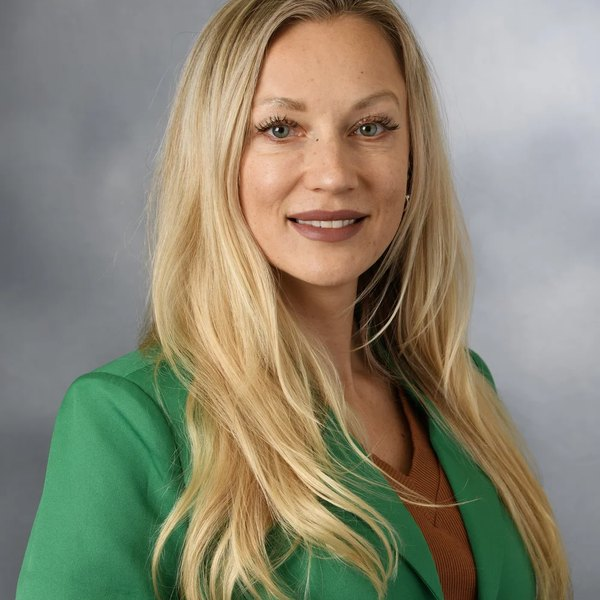
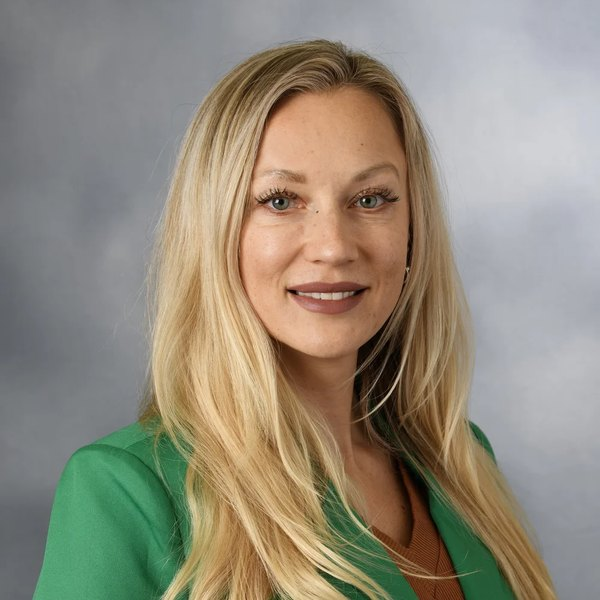
SEO foundation + content corrections
SEO (so Google can index & rank it):
- Removed noindex from all pages (was blocking indexing entirely).
- Added canonical URLs, Open Graph + Twitter cards, geo + theme-color meta.
- Added JSON-LD: GeneralContractor/LocalBusiness (NAP, geo, area served,
  services, hours, UEI/CAGE/NAICS), WebSite, and per-page BreadcrumbList.
- Added robots.txt + sitemap.xml; favicon (JI monogram) + OG image.
- Tuned home title/description for 'Alaska general contractor / Fairbanks'.

Content fixes:
- Costco card: 'Design-Build Office Complex' -> 'Costco Improvements'.
- Relabeled the mining-lab card to 'Mining Facilities Support'; added a real
  'Slope Camp Utilities Expansion' card (man-camp utilities photo, IMG_2416).
- Capabilities point of contact changed to Dave Long, General Manager.
- Re-cropped Maiia's headshot to match the other team photos.

diff --git a/projects.html b/projects.html
@@ -3,13 +3,34 @@
 <head>
 <meta charset="UTF-8" />
 <meta name="viewport" content="width=device-width, initial-scale=1.0" />
-<meta name="robots" content="noindex, nofollow" />
+<meta name="robots" content="index, follow, max-image-preview:large, max-snippet:-1" />
 <title>Projects | Selected Work Across Alaska | Jewel Isaac, LLC</title>
 <meta name="description" content="A portfolio of Jewel Isaac construction projects across Alaska: oil &amp; gas man camps, federal renovations, industrial shops, mine support, and commercial build-outs. Filter by market." />
+<link rel="canonical" href="https://jewelisaac.com/projects.html" />
+<meta name="theme-color" content="#0c0d0f" />
+<meta name="author" content="Jewel Isaac, LLC" />
+<meta name="geo.region" content="US-AK" /><meta name="geo.placename" content="Fairbanks, Alaska" />
+<meta property="og:type" content="website" />
+<meta property="og:site_name" content="Jewel Isaac, LLC" />
+<meta property="og:title" content="Projects | Selected Work Across Alaska | Jewel Isaac, LLC" />
+<meta property="og:description" content="A portfolio of Jewel Isaac construction projects across Alaska: oil &amp; gas man camps, federal renovations, industrial shops, mine support, and commercial build-outs. Filter by market." />
+<meta property="og:url" content="https://jewelisaac.com/projects.html" />
+<meta property="og:image" content="https://jewelisaac.com/assets/img/og-image.jpg" /><meta property="og:image:width" content="1200" /><meta property="og:image:height" content="630" />
+<meta property="og:locale" content="en_US" />
+<meta name="twitter:card" content="summary_large_image" />
+<meta name="twitter:title" content="Projects | Selected Work Across Alaska | Jewel Isaac, LLC" />
+<meta name="twitter:description" content="A portfolio of Jewel Isaac construction projects across Alaska: oil &amp; gas man camps, federal renovations, industrial shops, mine support, and commercial build-outs. Filter by market." />
+<meta name="twitter:image" content="https://jewelisaac.com/assets/img/og-image.jpg" />
+<link rel="icon" type="image/png" sizes="32x32" href="assets/img/favicon-32.png" />
+<link rel="apple-touch-icon" sizes="180x180" href="assets/img/favicon-180.png" />
+<link rel="icon" href="favicon.ico" sizes="any" />
 <link rel="preconnect" href="https://fonts.googleapis.com">
 <link rel="preconnect" href="https://fonts.gstatic.com" crossorigin>
 <link href="https://fonts.googleapis.com/css2?family=Oswald:wght@300;400;500;600;700&family=Inter:wght@400;500;600;700;800&display=swap" rel="stylesheet">
 <link rel="stylesheet" href="assets/styles.css?v=6">
+
+<script type="application/ld+json">{"@context":"https://schema.org","@type":["GeneralContractor","LocalBusiness"],"@id":"https://jewelisaac.com/#organization","name":"Jewel Isaac, LLC","alternateName":"Jewel Isaac General Contractor","url":"https://jewelisaac.com/","logo":"https://jewelisaac.com/assets/img/favicon-512.png","image":"https://jewelisaac.com/assets/img/og-image.jpg","description":"Alaska general contractor self-performing commercial, government, industrial, mining, and oil & gas construction across the state, headquartered in Fairbanks with an Anchorage office.","telephone":"+1-907-415-1600","email":"estimating@jewelisaac.com","priceRange":"$$$","foundingDate":"2004","founder":{"@type":"Person","name":"Seth Church"},"address":{"@type":"PostalAddress","streetAddress":"300 Barnette St, Suite 202","addressLocality":"Fairbanks","addressRegion":"AK","postalCode":"99701","addressCountry":"US"},"geo":{"@type":"GeoCoordinates","latitude":64.8401,"longitude":-147.72},"areaServed":[{"@type":"State","name":"Alaska"},{"@type":"City","name":"Fairbanks"},{"@type":"City","name":"Anchorage"},{"@type":"Place","name":"North Slope, Alaska"}],"knowsAbout":["Commercial construction","Government and defense construction","Industrial construction","Mining facility construction","Oil and gas construction","Design-build","Self-perform general contracting","Workforce housing and man camps","Arctic and cold-climate construction","Tenant improvement","Hydroexcavation"],"hasOfferCatalog":{"@type":"OfferCatalog","name":"Construction Services","itemListElement":[{"@type":"Offer","itemOffered":{"@type":"Service","name":"Commercial Construction","areaServed":"Alaska"}},{"@type":"Offer","itemOffered":{"@type":"Service","name":"Government & Defense Construction","areaServed":"Alaska"}},{"@type":"Offer","itemOffered":{"@type":"Service","name":"Industrial Construction","areaServed":"Alaska"}},{"@type":"Offer","itemOffered":{"@type":"Service","name":"Mining Construction","areaServed":"Alaska"}},{"@type":"Offer","itemOffered":{"@type":"Service","name":"Oil & Gas Construction","areaServed":"Alaska"}}]},"openingHoursSpecification":[{"@type":"OpeningHoursSpecification","dayOfWeek":["Monday","Tuesday","Wednesday","Thursday","Friday"],"opens":"08:00","closes":"17:00"}],"identifier":[{"@type":"PropertyValue","propertyID":"UEI","value":"ULLZLBKHGCB8"},{"@type":"PropertyValue","propertyID":"CAGE","value":"7PYR4"},{"@type":"PropertyValue","propertyID":"NAICS","value":"236220"}]}</script>
+<script type="application/ld+json">{"@context":"https://schema.org","@type":"BreadcrumbList","itemListElement":[{"@type":"ListItem","position":1,"name":"Home","item":"https://jewelisaac.com/"},{"@type":"ListItem","position":2,"name":"Projects","item":"https://jewelisaac.com/projects.html"}]}</script>
 </head>
 <body data-page="projects">
 
@@ -165,9 +186,9 @@
 
       <article class="card reveal d2" data-market="commercial">
         <div class="img" data-bg="assets/img/commercial-arena.jpg"></div><div class="veil"></div>
-        <div class="body"><span class="ptag">Commercial · Design-Build</span><h3>Design-Build Office Complex</h3>
+        <div class="body"><span class="ptag">Commercial</span><h3>Costco Improvements</h3>
           <div class="loc"><svg viewBox="0 0 24 24" fill="none" stroke="currentColor" stroke-width="2"><path d="M12 21s-7-5.6-7-11a7 7 0 0 1 14 0c0 5.4-7 11-7 11z"/><circle cx="12" cy="10" r="2.5"/></svg> Fairbanks, AK</div>
-          <p class="desc">Single-source design-build of a multi-tenant office building: preconstruction, permitting, and delivery under one contract.</p></div>
+          <p class="desc">Building and rooftop improvements for a national warehouse retailer, phased around live store operations.</p></div>
       </article>
 
       <article class="card reveal" data-market="mining">
@@ -177,11 +198,18 @@
           <p class="desc">Access roads, laydown pads, and drainage for a placer operation, scheduled around a tight summer earthwork window.</p></div>
       </article>
 
-      <article class="card reveal d1" data-market="oil-gas">
+      <article class="card reveal d1" data-market="mining">
         <div class="img" data-bg="assets/img/mechanical-crew.jpg"></div><div class="veil"></div>
+        <div class="body"><span class="ptag">Mining</span><h3>Mining Facilities Support</h3>
+          <div class="loc"><svg viewBox="0 0 24 24" fill="none" stroke="currentColor" stroke-width="2"><path d="M12 21s-7-5.6-7-11a7 7 0 0 1 14 0c0 5.4-7 11-7 11z"/><circle cx="12" cy="10" r="2.5"/></svg> Interior, AK</div>
+          <p class="desc">Facility support and fit-out for a mining operation, including process and lab building work that keeps the site running.</p></div>
+      </article>
+
+      <article class="card reveal d2" data-market="oil-gas">
+        <div class="img" data-bg="assets/img/slope-utilities.jpg"></div><div class="veil"></div>
         <div class="body"><span class="ptag">Oil &amp; Gas</span><h3>Slope Camp Utilities Expansion</h3>
-          <div class="loc"><svg viewBox="0 0 24 24" fill="none" stroke="currentColor" stroke-width="2"><path d="M12 21s-7-5.6-7-11a7 7 0 0 1 14 0c0 5.4-7 11-7 11z"/><circle cx="12" cy="10" r="2.5"/></svg> Deadhorse, AK</div>
-          <p class="desc">Expanded water, sewer, and power for an existing field camp: hydroexcavation, tie-ins, and winter-rated mechanical work.</p></div>
+          <div class="loc"><svg viewBox="0 0 24 24" fill="none" stroke="currentColor" stroke-width="2"><path d="M12 21s-7-5.6-7-11a7 7 0 0 1 14 0c0 5.4-7 11-7 11z"/><circle cx="12" cy="10" r="2.5"/></svg> North Slope, AK</div>
+          <p class="desc">Water, sewer, and power run between modular man-camp units, with hydroexcavation, tie-ins, and winter-rated mechanical work.</p></div>
       </article>
 
       <article class="card reveal d2" data-market="government">

diff --git a/capabilities.html b/capabilities.html
@@ -3,13 +3,34 @@
 <head>
 <meta charset="UTF-8" />
 <meta name="viewport" content="width=device-width, initial-scale=1.0" />
-<meta name="robots" content="noindex, nofollow" />
+<meta name="robots" content="index, follow, max-image-preview:large, max-snippet:-1" />
 <title>Capabilities &amp; Contracting | UEI, CAGE, NAICS, Past Performance | Jewel Isaac, LLC</title>
 <meta name="description" content="Jewel Isaac, LLC capability statement: UEI ULLZLBKHGCB8, CAGE 7PYR4, NAICS 236220, Alaska General Contractor License #115766, SAM-registered, bonded. Self-perform core competencies, past performance, and points of contact for government and prime-contractor clients." />
+<link rel="canonical" href="https://jewelisaac.com/capabilities.html" />
+<meta name="theme-color" content="#0c0d0f" />
+<meta name="author" content="Jewel Isaac, LLC" />
+<meta name="geo.region" content="US-AK" /><meta name="geo.placename" content="Fairbanks, Alaska" />
+<meta property="og:type" content="website" />
+<meta property="og:site_name" content="Jewel Isaac, LLC" />
+<meta property="og:title" content="Capabilities &amp; Contracting | UEI, CAGE, NAICS, Past Performance | Jewel Isaac, LLC" />
+<meta property="og:description" content="Jewel Isaac, LLC capability statement: UEI ULLZLBKHGCB8, CAGE 7PYR4, NAICS 236220, Alaska General Contractor License #115766, SAM-registered, bonded. Self-perform core competencies, past performance, and points of contact for government and prime-contractor clients." />
+<meta property="og:url" content="https://jewelisaac.com/capabilities.html" />
+<meta property="og:image" content="https://jewelisaac.com/assets/img/og-image.jpg" /><meta property="og:image:width" content="1200" /><meta property="og:image:height" content="630" />
+<meta property="og:locale" content="en_US" />
+<meta name="twitter:card" content="summary_large_image" />
+<meta name="twitter:title" content="Capabilities &amp; Contracting | UEI, CAGE, NAICS, Past Performance | Jewel Isaac, LLC" />
+<meta name="twitter:description" content="Jewel Isaac, LLC capability statement: UEI ULLZLBKHGCB8, CAGE 7PYR4, NAICS 236220, Alaska General Contractor License #115766, SAM-registered, bonded. Self-perform core competencies, past performance, and points of contact for government and prime-contractor clients." />
+<meta name="twitter:image" content="https://jewelisaac.com/assets/img/og-image.jpg" />
+<link rel="icon" type="image/png" sizes="32x32" href="assets/img/favicon-32.png" />
+<link rel="apple-touch-icon" sizes="180x180" href="assets/img/favicon-180.png" />
+<link rel="icon" href="favicon.ico" sizes="any" />
 <link rel="preconnect" href="https://fonts.googleapis.com">
 <link rel="preconnect" href="https://fonts.gstatic.com" crossorigin>
 <link href="https://fonts.googleapis.com/css2?family=Oswald:wght@300;400;500;600;700&family=Inter:wght@400;500;600;700;800&display=swap" rel="stylesheet">
 <link rel="stylesheet" href="assets/styles.css?v=6">
+
+<script type="application/ld+json">{"@context":"https://schema.org","@type":["GeneralContractor","LocalBusiness"],"@id":"https://jewelisaac.com/#organization","name":"Jewel Isaac, LLC","alternateName":"Jewel Isaac General Contractor","url":"https://jewelisaac.com/","logo":"https://jewelisaac.com/assets/img/favicon-512.png","image":"https://jewelisaac.com/assets/img/og-image.jpg","description":"Alaska general contractor self-performing commercial, government, industrial, mining, and oil & gas construction across the state, headquartered in Fairbanks with an Anchorage office.","telephone":"+1-907-415-1600","email":"estimating@jewelisaac.com","priceRange":"$$$","foundingDate":"2004","founder":{"@type":"Person","name":"Seth Church"},"address":{"@type":"PostalAddress","streetAddress":"300 Barnette St, Suite 202","addressLocality":"Fairbanks","addressRegion":"AK","postalCode":"99701","addressCountry":"US"},"geo":{"@type":"GeoCoordinates","latitude":64.8401,"longitude":-147.72},"areaServed":[{"@type":"State","name":"Alaska"},{"@type":"City","name":"Fairbanks"},{"@type":"City","name":"Anchorage"},{"@type":"Place","name":"North Slope, Alaska"}],"knowsAbout":["Commercial construction","Government and defense construction","Industrial construction","Mining facility construction","Oil and gas construction","Design-build","Self-perform general contracting","Workforce housing and man camps","Arctic and cold-climate construction","Tenant improvement","Hydroexcavation"],"hasOfferCatalog":{"@type":"OfferCatalog","name":"Construction Services","itemListElement":[{"@type":"Offer","itemOffered":{"@type":"Service","name":"Commercial Construction","areaServed":"Alaska"}},{"@type":"Offer","itemOffered":{"@type":"Service","name":"Government & Defense Construction","areaServed":"Alaska"}},{"@type":"Offer","itemOffered":{"@type":"Service","name":"Industrial Construction","areaServed":"Alaska"}},{"@type":"Offer","itemOffered":{"@type":"Service","name":"Mining Construction","areaServed":"Alaska"}},{"@type":"Offer","itemOffered":{"@type":"Service","name":"Oil & Gas Construction","areaServed":"Alaska"}}]},"openingHoursSpecification":[{"@type":"OpeningHoursSpecification","dayOfWeek":["Monday","Tuesday","Wednesday","Thursday","Friday"],"opens":"08:00","closes":"17:00"}],"identifier":[{"@type":"PropertyValue","propertyID":"UEI","value":"ULLZLBKHGCB8"},{"@type":"PropertyValue","propertyID":"CAGE","value":"7PYR4"},{"@type":"PropertyValue","propertyID":"NAICS","value":"236220"}]}</script>
+<script type="application/ld+json">{"@context":"https://schema.org","@type":"BreadcrumbList","itemListElement":[{"@type":"ListItem","position":1,"name":"Home","item":"https://jewelisaac.com/"},{"@type":"ListItem","position":2,"name":"Capabilities","item":"https://jewelisaac.com/capabilities.html"}]}</script>
 </head>
 <body data-page="capabilities">
 
@@ -127,7 +148,7 @@
         <div class="cinfo reveal d1">
           <div class="item">
             <svg viewBox="0 0 24 24" fill="none" stroke="currentColor" stroke-width="2"><circle cx="12" cy="8" r="4"/><path d="M4 21c0-4 4-6 8-6s8 2 8 6"/></svg>
-            <div><h4>Point of Contact</h4><p style="color:#fff;font-weight:500">Seth Church, Managing Member</p><a href="mailto:seth@jewelisaac.com">seth@jewelisaac.com</a><a href="tel:7015007188">(701) 500-7188</a></div>
+            <div><h4>Point of Contact</h4><p style="color:#fff;font-weight:500">Dave Long, General Manager</p><a href="mailto:dave@jewelisaac.com">dave@jewelisaac.com</a><a href="tel:7016098472">(701) 609-8472</a></div>
           </div>
           <div class="item">
             <svg viewBox="0 0 24 24" fill="none" stroke="currentColor" stroke-width="2"><rect x="3" y="5" width="18" height="14" rx="2"/><path d="m3 7 9 6 9-6"/></svg>

diff --git a/index.html b/index.html
@@ -3,13 +3,34 @@
 <head>
 <meta charset="UTF-8" />
 <meta name="viewport" content="width=device-width, initial-scale=1.0" />
-<meta name="robots" content="noindex, nofollow" />
-<title>Jewel Isaac, LLC | Heavy Civil, Industrial & Government Construction | Alaska</title>
-<meta name="description" content="Jewel Isaac is an Alaska-built construction company delivering commercial, government, industrial, mining, and oil &amp; gas projects across the Last Frontier and the lower 48. Self-perform crews. Zero-harm safety. Statewide reach." />
+<meta name="robots" content="index, follow, max-image-preview:large, max-snippet:-1" />
+<title>Jewel Isaac, LLC | Alaska General Contractor in Fairbanks</title>
+<meta name="description" content="Jewel Isaac, LLC is a Fairbanks-based Alaska general contractor self-performing commercial, government, industrial, mining, and oil &amp; gas construction statewide. Licensed, bonded, and SAM-registered." />
+<link rel="canonical" href="https://jewelisaac.com/" />
+<meta name="theme-color" content="#0c0d0f" />
+<meta name="author" content="Jewel Isaac, LLC" />
+<meta name="geo.region" content="US-AK" /><meta name="geo.placename" content="Fairbanks, Alaska" />
+<meta property="og:type" content="website" />
+<meta property="og:site_name" content="Jewel Isaac, LLC" />
+<meta property="og:title" content="Jewel Isaac, LLC | Alaska General Contractor in Fairbanks" />
+<meta property="og:description" content="Jewel Isaac, LLC is a Fairbanks-based Alaska general contractor self-performing commercial, government, industrial, mining, and oil &amp; gas construction statewide. Licensed, bonded, and SAM-registered." />
+<meta property="og:url" content="https://jewelisaac.com/" />
+<meta property="og:image" content="https://jewelisaac.com/assets/img/og-image.jpg" /><meta property="og:image:width" content="1200" /><meta property="og:image:height" content="630" />
+<meta property="og:locale" content="en_US" />
+<meta name="twitter:card" content="summary_large_image" />
+<meta name="twitter:title" content="Jewel Isaac, LLC | Alaska General Contractor in Fairbanks" />
+<meta name="twitter:description" content="Jewel Isaac, LLC is a Fairbanks-based Alaska general contractor self-performing commercial, government, industrial, mining, and oil &amp; gas construction statewide. Licensed, bonded, and SAM-registered." />
+<meta name="twitter:image" content="https://jewelisaac.com/assets/img/og-image.jpg" />
+<link rel="icon" type="image/png" sizes="32x32" href="assets/img/favicon-32.png" />
+<link rel="apple-touch-icon" sizes="180x180" href="assets/img/favicon-180.png" />
+<link rel="icon" href="favicon.ico" sizes="any" />
 <link rel="preconnect" href="https://fonts.googleapis.com">
 <link rel="preconnect" href="https://fonts.gstatic.com" crossorigin>
 <link href="https://fonts.googleapis.com/css2?family=Oswald:wght@300;400;500;600;700&family=Inter:wght@400;500;600;700;800&display=swap" rel="stylesheet">
 <link rel="stylesheet" href="assets/styles.css?v=6">
+
+<script type="application/ld+json">{"@context":"https://schema.org","@type":["GeneralContractor","LocalBusiness"],"@id":"https://jewelisaac.com/#organization","name":"Jewel Isaac, LLC","alternateName":"Jewel Isaac General Contractor","url":"https://jewelisaac.com/","logo":"https://jewelisaac.com/assets/img/favicon-512.png","image":"https://jewelisaac.com/assets/img/og-image.jpg","description":"Alaska general contractor self-performing commercial, government, industrial, mining, and oil & gas construction across the state, headquartered in Fairbanks with an Anchorage office.","telephone":"+1-907-415-1600","email":"estimating@jewelisaac.com","priceRange":"$$$","foundingDate":"2004","founder":{"@type":"Person","name":"Seth Church"},"address":{"@type":"PostalAddress","streetAddress":"300 Barnette St, Suite 202","addressLocality":"Fairbanks","addressRegion":"AK","postalCode":"99701","addressCountry":"US"},"geo":{"@type":"GeoCoordinates","latitude":64.8401,"longitude":-147.72},"areaServed":[{"@type":"State","name":"Alaska"},{"@type":"City","name":"Fairbanks"},{"@type":"City","name":"Anchorage"},{"@type":"Place","name":"North Slope, Alaska"}],"knowsAbout":["Commercial construction","Government and defense construction","Industrial construction","Mining facility construction","Oil and gas construction","Design-build","Self-perform general contracting","Workforce housing and man camps","Arctic and cold-climate construction","Tenant improvement","Hydroexcavation"],"hasOfferCatalog":{"@type":"OfferCatalog","name":"Construction Services","itemListElement":[{"@type":"Offer","itemOffered":{"@type":"Service","name":"Commercial Construction","areaServed":"Alaska"}},{"@type":"Offer","itemOffered":{"@type":"Service","name":"Government & Defense Construction","areaServed":"Alaska"}},{"@type":"Offer","itemOffered":{"@type":"Service","name":"Industrial Construction","areaServed":"Alaska"}},{"@type":"Offer","itemOffered":{"@type":"Service","name":"Mining Construction","areaServed":"Alaska"}},{"@type":"Offer","itemOffered":{"@type":"Service","name":"Oil & Gas Construction","areaServed":"Alaska"}}]},"openingHoursSpecification":[{"@type":"OpeningHoursSpecification","dayOfWeek":["Monday","Tuesday","Wednesday","Thursday","Friday"],"opens":"08:00","closes":"17:00"}],"identifier":[{"@type":"PropertyValue","propertyID":"UEI","value":"ULLZLBKHGCB8"},{"@type":"PropertyValue","propertyID":"CAGE","value":"7PYR4"},{"@type":"PropertyValue","propertyID":"NAICS","value":"236220"}]}</script>
+<script type="application/ld+json">{"@context":"https://schema.org","@type":"WebSite","@id":"https://jewelisaac.com/#website","url":"https://jewelisaac.com/","name":"Jewel Isaac, LLC","publisher":{"@id":"https://jewelisaac.com/#organization"},"inLanguage":"en-US"}</script>
 </head>
 <body data-page="home">
 

diff --git a/markets.html b/markets.html
@@ -3,13 +3,34 @@
 <head>
 <meta charset="UTF-8" />
 <meta name="viewport" content="width=device-width, initial-scale=1.0" />
-<meta name="robots" content="noindex, nofollow" />
+<meta name="robots" content="index, follow, max-image-preview:large, max-snippet:-1" />
 <title>Markets | Commercial, Government, Industrial, Mining & Oil &amp; Gas | Jewel Isaac, LLC</title>
 <meta name="description" content="Jewel Isaac self-performs construction across five markets in Alaska: commercial, government &amp; defense, industrial, mining, and oil &amp; gas. One standard, one team, statewide reach." />
+<link rel="canonical" href="https://jewelisaac.com/markets.html" />
+<meta name="theme-color" content="#0c0d0f" />
+<meta name="author" content="Jewel Isaac, LLC" />
+<meta name="geo.region" content="US-AK" /><meta name="geo.placename" content="Fairbanks, Alaska" />
+<meta property="og:type" content="website" />
+<meta property="og:site_name" content="Jewel Isaac, LLC" />
+<meta property="og:title" content="Markets | Commercial, Government, Industrial, Mining & Oil &amp; Gas | Jewel Isaac, LLC" />
+<meta property="og:description" content="Jewel Isaac self-performs construction across five markets in Alaska: commercial, government &amp; defense, industrial, mining, and oil &amp; gas. One standard, one team, statewide reach." />
+<meta property="og:url" content="https://jewelisaac.com/markets.html" />
+<meta property="og:image" content="https://jewelisaac.com/assets/img/og-image.jpg" /><meta property="og:image:width" content="1200" /><meta property="og:image:height" content="630" />
+<meta property="og:locale" content="en_US" />
+<meta name="twitter:card" content="summary_large_image" />
+<meta name="twitter:title" content="Markets | Commercial, Government, Industrial, Mining & Oil &amp; Gas | Jewel Isaac, LLC" />
+<meta name="twitter:description" content="Jewel Isaac self-performs construction across five markets in Alaska: commercial, government &amp; defense, industrial, mining, and oil &amp; gas. One standard, one team, statewide reach." />
+<meta name="twitter:image" content="https://jewelisaac.com/assets/img/og-image.jpg" />
+<link rel="icon" type="image/png" sizes="32x32" href="assets/img/favicon-32.png" />
+<link rel="apple-touch-icon" sizes="180x180" href="assets/img/favicon-180.png" />
+<link rel="icon" href="favicon.ico" sizes="any" />
 <link rel="preconnect" href="https://fonts.googleapis.com">
 <link rel="preconnect" href="https://fonts.gstatic.com" crossorigin>
 <link href="https://fonts.googleapis.com/css2?family=Oswald:wght@300;400;500;600;700&family=Inter:wght@400;500;600;700;800&display=swap" rel="stylesheet">
 <link rel="stylesheet" href="assets/styles.css?v=6">
+
+<script type="application/ld+json">{"@context":"https://schema.org","@type":["GeneralContractor","LocalBusiness"],"@id":"https://jewelisaac.com/#organization","name":"Jewel Isaac, LLC","alternateName":"Jewel Isaac General Contractor","url":"https://jewelisaac.com/","logo":"https://jewelisaac.com/assets/img/favicon-512.png","image":"https://jewelisaac.com/assets/img/og-image.jpg","description":"Alaska general contractor self-performing commercial, government, industrial, mining, and oil & gas construction across the state, headquartered in Fairbanks with an Anchorage office.","telephone":"+1-907-415-1600","email":"estimating@jewelisaac.com","priceRange":"$$$","foundingDate":"2004","founder":{"@type":"Person","name":"Seth Church"},"address":{"@type":"PostalAddress","streetAddress":"300 Barnette St, Suite 202","addressLocality":"Fairbanks","addressRegion":"AK","postalCode":"99701","addressCountry":"US"},"geo":{"@type":"GeoCoordinates","latitude":64.8401,"longitude":-147.72},"areaServed":[{"@type":"State","name":"Alaska"},{"@type":"City","name":"Fairbanks"},{"@type":"City","name":"Anchorage"},{"@type":"Place","name":"North Slope, Alaska"}],"knowsAbout":["Commercial construction","Government and defense construction","Industrial construction","Mining facility construction","Oil and gas construction","Design-build","Self-perform general contracting","Workforce housing and man camps","Arctic and cold-climate construction","Tenant improvement","Hydroexcavation"],"hasOfferCatalog":{"@type":"OfferCatalog","name":"Construction Services","itemListElement":[{"@type":"Offer","itemOffered":{"@type":"Service","name":"Commercial Construction","areaServed":"Alaska"}},{"@type":"Offer","itemOffered":{"@type":"Service","name":"Government & Defense Construction","areaServed":"Alaska"}},{"@type":"Offer","itemOffered":{"@type":"Service","name":"Industrial Construction","areaServed":"Alaska"}},{"@type":"Offer","itemOffered":{"@type":"Service","name":"Mining Construction","areaServed":"Alaska"}},{"@type":"Offer","itemOffered":{"@type":"Service","name":"Oil & Gas Construction","areaServed":"Alaska"}}]},"openingHoursSpecification":[{"@type":"OpeningHoursSpecification","dayOfWeek":["Monday","Tuesday","Wednesday","Thursday","Friday"],"opens":"08:00","closes":"17:00"}],"identifier":[{"@type":"PropertyValue","propertyID":"UEI","value":"ULLZLBKHGCB8"},{"@type":"PropertyValue","propertyID":"CAGE","value":"7PYR4"},{"@type":"PropertyValue","propertyID":"NAICS","value":"236220"}]}</script>
+<script type="application/ld+json">{"@context":"https://schema.org","@type":"BreadcrumbList","itemListElement":[{"@type":"ListItem","position":1,"name":"Home","item":"https://jewelisaac.com/"},{"@type":"ListItem","position":2,"name":"Markets","item":"https://jewelisaac.com/markets.html"}]}</script>
 </head>
 <body data-page="markets">
 

diff --git a/about.html b/about.html
@@ -3,13 +3,34 @@
 <head>
 <meta charset="UTF-8" />
 <meta name="viewport" content="width=device-width, initial-scale=1.0" />
-<meta name="robots" content="noindex, nofollow" />
+<meta name="robots" content="index, follow, max-image-preview:large, max-snippet:-1" />
 <title>Company | Alaska-Built, Relationship-Driven | Jewel Isaac, LLC</title>
 <meta name="description" content="Jewel Isaac, LLC is a Fairbanks-headquartered construction company with two decades of statewide experience, self-perform crews, a zero-harm culture, and a Minto Global North partnership." />
+<link rel="canonical" href="https://jewelisaac.com/about.html" />
+<meta name="theme-color" content="#0c0d0f" />
+<meta name="author" content="Jewel Isaac, LLC" />
+<meta name="geo.region" content="US-AK" /><meta name="geo.placename" content="Fairbanks, Alaska" />
+<meta property="og:type" content="website" />
+<meta property="og:site_name" content="Jewel Isaac, LLC" />
+<meta property="og:title" content="Company | Alaska-Built, Relationship-Driven | Jewel Isaac, LLC" />
+<meta property="og:description" content="Jewel Isaac, LLC is a Fairbanks-headquartered construction company with two decades of statewide experience, self-perform crews, a zero-harm culture, and a Minto Global North partnership." />
+<meta property="og:url" content="https://jewelisaac.com/about.html" />
+<meta property="og:image" content="https://jewelisaac.com/assets/img/og-image.jpg" /><meta property="og:image:width" content="1200" /><meta property="og:image:height" content="630" />
+<meta property="og:locale" content="en_US" />
+<meta name="twitter:card" content="summary_large_image" />
+<meta name="twitter:title" content="Company | Alaska-Built, Relationship-Driven | Jewel Isaac, LLC" />
+<meta name="twitter:description" content="Jewel Isaac, LLC is a Fairbanks-headquartered construction company with two decades of statewide experience, self-perform crews, a zero-harm culture, and a Minto Global North partnership." />
+<meta name="twitter:image" content="https://jewelisaac.com/assets/img/og-image.jpg" />
+<link rel="icon" type="image/png" sizes="32x32" href="assets/img/favicon-32.png" />
+<link rel="apple-touch-icon" sizes="180x180" href="assets/img/favicon-180.png" />
+<link rel="icon" href="favicon.ico" sizes="any" />
 <link rel="preconnect" href="https://fonts.googleapis.com">
 <link rel="preconnect" href="https://fonts.gstatic.com" crossorigin>
 <link href="https://fonts.googleapis.com/css2?family=Oswald:wght@300;400;500;600;700&family=Inter:wght@400;500;600;700;800&display=swap" rel="stylesheet">
 <link rel="stylesheet" href="assets/styles.css?v=6">
+
+<script type="application/ld+json">{"@context":"https://schema.org","@type":["GeneralContractor","LocalBusiness"],"@id":"https://jewelisaac.com/#organization","name":"Jewel Isaac, LLC","alternateName":"Jewel Isaac General Contractor","url":"https://jewelisaac.com/","logo":"https://jewelisaac.com/assets/img/favicon-512.png","image":"https://jewelisaac.com/assets/img/og-image.jpg","description":"Alaska general contractor self-performing commercial, government, industrial, mining, and oil & gas construction across the state, headquartered in Fairbanks with an Anchorage office.","telephone":"+1-907-415-1600","email":"estimating@jewelisaac.com","priceRange":"$$$","foundingDate":"2004","founder":{"@type":"Person","name":"Seth Church"},"address":{"@type":"PostalAddress","streetAddress":"300 Barnette St, Suite 202","addressLocality":"Fairbanks","addressRegion":"AK","postalCode":"99701","addressCountry":"US"},"geo":{"@type":"GeoCoordinates","latitude":64.8401,"longitude":-147.72},"areaServed":[{"@type":"State","name":"Alaska"},{"@type":"City","name":"Fairbanks"},{"@type":"City","name":"Anchorage"},{"@type":"Place","name":"North Slope, Alaska"}],"knowsAbout":["Commercial construction","Government and defense construction","Industrial construction","Mining facility construction","Oil and gas construction","Design-build","Self-perform general contracting","Workforce housing and man camps","Arctic and cold-climate construction","Tenant improvement","Hydroexcavation"],"hasOfferCatalog":{"@type":"OfferCatalog","name":"Construction Services","itemListElement":[{"@type":"Offer","itemOffered":{"@type":"Service","name":"Commercial Construction","areaServed":"Alaska"}},{"@type":"Offer","itemOffered":{"@type":"Service","name":"Government & Defense Construction","areaServed":"Alaska"}},{"@type":"Offer","itemOffered":{"@type":"Service","name":"Industrial Construction","areaServed":"Alaska"}},{"@type":"Offer","itemOffered":{"@type":"Service","name":"Mining Construction","areaServed":"Alaska"}},{"@type":"Offer","itemOffered":{"@type":"Service","name":"Oil & Gas Construction","areaServed":"Alaska"}}]},"openingHoursSpecification":[{"@type":"OpeningHoursSpecification","dayOfWeek":["Monday","Tuesday","Wednesday","Thursday","Friday"],"opens":"08:00","closes":"17:00"}],"identifier":[{"@type":"PropertyValue","propertyID":"UEI","value":"ULLZLBKHGCB8"},{"@type":"PropertyValue","propertyID":"CAGE","value":"7PYR4"},{"@type":"PropertyValue","propertyID":"NAICS","value":"236220"}]}</script>
+<script type="application/ld+json">{"@context":"https://schema.org","@type":"BreadcrumbList","itemListElement":[{"@type":"ListItem","position":1,"name":"Home","item":"https://jewelisaac.com/"},{"@type":"ListItem","position":2,"name":"Company","item":"https://jewelisaac.com/about.html"}]}</script>
 </head>
 <body data-page="about">
 

diff --git a/safety.html b/safety.html
@@ -3,13 +3,34 @@
 <head>
 <meta charset="UTF-8" />
 <meta name="viewport" content="width=device-width, initial-scale=1.0" />
-<meta name="robots" content="noindex, nofollow" />
+<meta name="robots" content="index, follow, max-image-preview:large, max-snippet:-1" />
 <title>Safety | Zero Harm, Built for the Arctic | Jewel Isaac, LLC</title>
 <meta name="description" content="Jewel Isaac's safety program: zero-harm culture, daily pre-task planning, cold-weather and remote-site protocols, OSHA-aligned training, and an EMR of 0.71. Everyone goes home." />
+<link rel="canonical" href="https://jewelisaac.com/safety.html" />
+<meta name="theme-color" content="#0c0d0f" />
+<meta name="author" content="Jewel Isaac, LLC" />
+<meta name="geo.region" content="US-AK" /><meta name="geo.placename" content="Fairbanks, Alaska" />
+<meta property="og:type" content="website" />
+<meta property="og:site_name" content="Jewel Isaac, LLC" />
+<meta property="og:title" content="Safety | Zero Harm, Built for the Arctic | Jewel Isaac, LLC" />
+<meta property="og:description" content="Jewel Isaac's safety program: zero-harm culture, daily pre-task planning, cold-weather and remote-site protocols, OSHA-aligned training, and an EMR of 0.71. Everyone goes home." />
+<meta property="og:url" content="https://jewelisaac.com/safety.html" />
+<meta property="og:image" content="https://jewelisaac.com/assets/img/og-image.jpg" /><meta property="og:image:width" content="1200" /><meta property="og:image:height" content="630" />
+<meta property="og:locale" content="en_US" />
+<meta name="twitter:card" content="summary_large_image" />
+<meta name="twitter:title" content="Safety | Zero Harm, Built for the Arctic | Jewel Isaac, LLC" />
+<meta name="twitter:description" content="Jewel Isaac's safety program: zero-harm culture, daily pre-task planning, cold-weather and remote-site protocols, OSHA-aligned training, and an EMR of 0.71. Everyone goes home." />
+<meta name="twitter:image" content="https://jewelisaac.com/assets/img/og-image.jpg" />
+<link rel="icon" type="image/png" sizes="32x32" href="assets/img/favicon-32.png" />
+<link rel="apple-touch-icon" sizes="180x180" href="assets/img/favicon-180.png" />
+<link rel="icon" href="favicon.ico" sizes="any" />
 <link rel="preconnect" href="https://fonts.googleapis.com">
 <link rel="preconnect" href="https://fonts.gstatic.com" crossorigin>
 <link href="https://fonts.googleapis.com/css2?family=Oswald:wght@300;400;500;600;700&family=Inter:wght@400;500;600;700;800&display=swap" rel="stylesheet">
 <link rel="stylesheet" href="assets/styles.css?v=6">
+
+<script type="application/ld+json">{"@context":"https://schema.org","@type":["GeneralContractor","LocalBusiness"],"@id":"https://jewelisaac.com/#organization","name":"Jewel Isaac, LLC","alternateName":"Jewel Isaac General Contractor","url":"https://jewelisaac.com/","logo":"https://jewelisaac.com/assets/img/favicon-512.png","image":"https://jewelisaac.com/assets/img/og-image.jpg","description":"Alaska general contractor self-performing commercial, government, industrial, mining, and oil & gas construction across the state, headquartered in Fairbanks with an Anchorage office.","telephone":"+1-907-415-1600","email":"estimating@jewelisaac.com","priceRange":"$$$","foundingDate":"2004","founder":{"@type":"Person","name":"Seth Church"},"address":{"@type":"PostalAddress","streetAddress":"300 Barnette St, Suite 202","addressLocality":"Fairbanks","addressRegion":"AK","postalCode":"99701","addressCountry":"US"},"geo":{"@type":"GeoCoordinates","latitude":64.8401,"longitude":-147.72},"areaServed":[{"@type":"State","name":"Alaska"},{"@type":"City","name":"Fairbanks"},{"@type":"City","name":"Anchorage"},{"@type":"Place","name":"North Slope, Alaska"}],"knowsAbout":["Commercial construction","Government and defense construction","Industrial construction","Mining facility construction","Oil and gas construction","Design-build","Self-perform general contracting","Workforce housing and man camps","Arctic and cold-climate construction","Tenant improvement","Hydroexcavation"],"hasOfferCatalog":{"@type":"OfferCatalog","name":"Construction Services","itemListElement":[{"@type":"Offer","itemOffered":{"@type":"Service","name":"Commercial Construction","areaServed":"Alaska"}},{"@type":"Offer","itemOffered":{"@type":"Service","name":"Government & Defense Construction","areaServed":"Alaska"}},{"@type":"Offer","itemOffered":{"@type":"Service","name":"Industrial Construction","areaServed":"Alaska"}},{"@type":"Offer","itemOffered":{"@type":"Service","name":"Mining Construction","areaServed":"Alaska"}},{"@type":"Offer","itemOffered":{"@type":"Service","name":"Oil & Gas Construction","areaServed":"Alaska"}}]},"openingHoursSpecification":[{"@type":"OpeningHoursSpecification","dayOfWeek":["Monday","Tuesday","Wednesday","Thursday","Friday"],"opens":"08:00","closes":"17:00"}],"identifier":[{"@type":"PropertyValue","propertyID":"UEI","value":"ULLZLBKHGCB8"},{"@type":"PropertyValue","propertyID":"CAGE","value":"7PYR4"},{"@type":"PropertyValue","propertyID":"NAICS","value":"236220"}]}</script>
+<script type="application/ld+json">{"@context":"https://schema.org","@type":"BreadcrumbList","itemListElement":[{"@type":"ListItem","position":1,"name":"Home","item":"https://jewelisaac.com/"},{"@type":"ListItem","position":2,"name":"Safety","item":"https://jewelisaac.com/safety.html"}]}</script>
 </head>
 <body data-page="safety">
 

diff --git a/contact.html b/contact.html
@@ -3,13 +3,34 @@
 <head>
 <meta charset="UTF-8" />
 <meta name="viewport" content="width=device-width, initial-scale=1.0" />
-<meta name="robots" content="noindex, nofollow" />
+<meta name="robots" content="index, follow, max-image-preview:large, max-snippet:-1" />
 <title>Request a Bid | Contact Jewel Isaac, LLC | Alaska Construction</title>
 <meta name="description" content="Request a bid from Jewel Isaac, LLC. Send your scope, site, and schedule and our estimating team will respond within one business day. Fairbanks &amp; Anchorage, Alaska." />
+<link rel="canonical" href="https://jewelisaac.com/contact.html" />
+<meta name="theme-color" content="#0c0d0f" />
+<meta name="author" content="Jewel Isaac, LLC" />
+<meta name="geo.region" content="US-AK" /><meta name="geo.placename" content="Fairbanks, Alaska" />
+<meta property="og:type" content="website" />
+<meta property="og:site_name" content="Jewel Isaac, LLC" />
+<meta property="og:title" content="Request a Bid | Contact Jewel Isaac, LLC | Alaska Construction" />
+<meta property="og:description" content="Request a bid from Jewel Isaac, LLC. Send your scope, site, and schedule and our estimating team will respond within one business day. Fairbanks &amp; Anchorage, Alaska." />
+<meta property="og:url" content="https://jewelisaac.com/contact.html" />
+<meta property="og:image" content="https://jewelisaac.com/assets/img/og-image.jpg" /><meta property="og:image:width" content="1200" /><meta property="og:image:height" content="630" />
+<meta property="og:locale" content="en_US" />
+<meta name="twitter:card" content="summary_large_image" />
+<meta name="twitter:title" content="Request a Bid | Contact Jewel Isaac, LLC | Alaska Construction" />
+<meta name="twitter:description" content="Request a bid from Jewel Isaac, LLC. Send your scope, site, and schedule and our estimating team will respond within one business day. Fairbanks &amp; Anchorage, Alaska." />
+<meta name="twitter:image" content="https://jewelisaac.com/assets/img/og-image.jpg" />
+<link rel="icon" type="image/png" sizes="32x32" href="assets/img/favicon-32.png" />
+<link rel="apple-touch-icon" sizes="180x180" href="assets/img/favicon-180.png" />
+<link rel="icon" href="favicon.ico" sizes="any" />
 <link rel="preconnect" href="https://fonts.googleapis.com">
 <link rel="preconnect" href="https://fonts.gstatic.com" crossorigin>
 <link href="https://fonts.googleapis.com/css2?family=Oswald:wght@300;400;500;600;700&family=Inter:wght@400;500;600;700;800&display=swap" rel="stylesheet">
 <link rel="stylesheet" href="assets/styles.css?v=6">
+
+<script type="application/ld+json">{"@context":"https://schema.org","@type":["GeneralContractor","LocalBusiness"],"@id":"https://jewelisaac.com/#organization","name":"Jewel Isaac, LLC","alternateName":"Jewel Isaac General Contractor","url":"https://jewelisaac.com/","logo":"https://jewelisaac.com/assets/img/favicon-512.png","image":"https://jewelisaac.com/assets/img/og-image.jpg","description":"Alaska general contractor self-performing commercial, government, industrial, mining, and oil & gas construction across the state, headquartered in Fairbanks with an Anchorage office.","telephone":"+1-907-415-1600","email":"estimating@jewelisaac.com","priceRange":"$$$","foundingDate":"2004","founder":{"@type":"Person","name":"Seth Church"},"address":{"@type":"PostalAddress","streetAddress":"300 Barnette St, Suite 202","addressLocality":"Fairbanks","addressRegion":"AK","postalCode":"99701","addressCountry":"US"},"geo":{"@type":"GeoCoordinates","latitude":64.8401,"longitude":-147.72},"areaServed":[{"@type":"State","name":"Alaska"},{"@type":"City","name":"Fairbanks"},{"@type":"City","name":"Anchorage"},{"@type":"Place","name":"North Slope, Alaska"}],"knowsAbout":["Commercial construction","Government and defense construction","Industrial construction","Mining facility construction","Oil and gas construction","Design-build","Self-perform general contracting","Workforce housing and man camps","Arctic and cold-climate construction","Tenant improvement","Hydroexcavation"],"hasOfferCatalog":{"@type":"OfferCatalog","name":"Construction Services","itemListElement":[{"@type":"Offer","itemOffered":{"@type":"Service","name":"Commercial Construction","areaServed":"Alaska"}},{"@type":"Offer","itemOffered":{"@type":"Service","name":"Government & Defense Construction","areaServed":"Alaska"}},{"@type":"Offer","itemOffered":{"@type":"Service","name":"Industrial Construction","areaServed":"Alaska"}},{"@type":"Offer","itemOffered":{"@type":"Service","name":"Mining Construction","areaServed":"Alaska"}},{"@type":"Offer","itemOffered":{"@type":"Service","name":"Oil & Gas Construction","areaServed":"Alaska"}}]},"openingHoursSpecification":[{"@type":"OpeningHoursSpecification","dayOfWeek":["Monday","Tuesday","Wednesday","Thursday","Friday"],"opens":"08:00","closes":"17:00"}],"identifier":[{"@type":"PropertyValue","propertyID":"UEI","value":"ULLZLBKHGCB8"},{"@type":"PropertyValue","propertyID":"CAGE","value":"7PYR4"},{"@type":"PropertyValue","propertyID":"NAICS","value":"236220"}]}</script>
+<script type="application/ld+json">{"@context":"https://schema.org","@type":"BreadcrumbList","itemListElement":[{"@type":"ListItem","position":1,"name":"Home","item":"https://jewelisaac.com/"},{"@type":"ListItem","position":2,"name":"Contact","item":"https://jewelisaac.com/contact.html"}]}</script>
 </head>
 <body data-page="contact">
 
